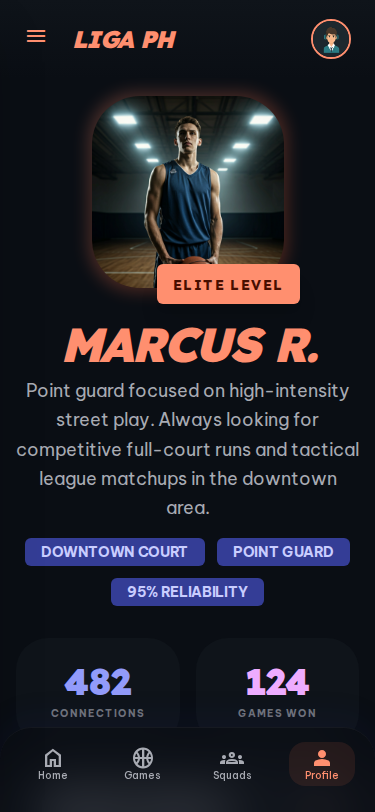
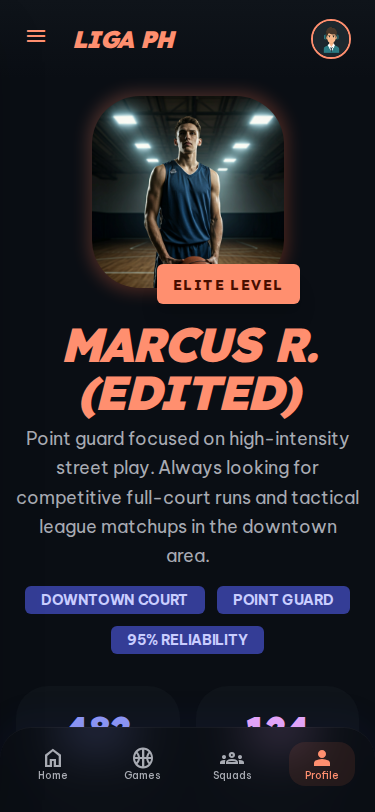
Hello! Jules here. I have successfully implemented the feature to make the profile dynamic using localstorage. Here is a summary of the updates I made:
- Created `profile.js` to handle saving and loading profile data using `localStorage` under the key `ligaPhProfile`.
- Integrated `profile.js` into `profile.html` and `edit-profile.html`.
- Updated `profile.html` elements with appropriate IDs (`#profile-name`, `#profile-bio`, `#profile-home-court`, `#profile-position`) to allow JavaScript population.
- Updated the `edit-profile.html` form with an ID (`#edit-profile-form`) to allow JavaScript interception and form handling.
- Added a redirect script to the `<head>` of `index.html` to automatically route authenticated users (those with `ligaPhProfile` in `localStorage`) to `feeds.html`.
- Updated the authentication handler in `index.html` to initialize `ligaPhProfile` in `localStorage` upon signup or login.

Changed region(s): [[0.0587, 0.4618, 0.968, 0.9236], [0.4107, 0.9852, 0.4987, 1.0]]

diff --git a/profile.js b/profile.js
@@ -1,0 +1,88 @@
+// profile.js
+
+const DEFAULT_PROFILE = {
+    displayName: "MARCUS R.",
+    primaryPosition: "PG",
+    homeCourt: "DOWNTOWN COURT",
+    bio: "Point guard focused on high-intensity street play. Always looking for competitive full-court runs and tactical league matchups in the downtown area."
+};
+
+function getProfileData() {
+    const data = localStorage.getItem('ligaPhProfile');
+    if (data) {
+        return JSON.parse(data);
+    }
+    return DEFAULT_PROFILE;
+}
+
+function saveProfileData(data) {
+    localStorage.setItem('ligaPhProfile', JSON.stringify(data));
+}
+
+function initProfilePage() {
+    const profile = getProfileData();
+
+    // Elements to update
+    const nameEl = document.getElementById('profile-name');
+    const positionEl = document.getElementById('profile-position');
+    const homeCourtEl = document.getElementById('profile-home-court');
+    const bioEl = document.getElementById('profile-bio');
+
+    if (nameEl) nameEl.textContent = profile.displayName;
+
+    // Map position code to friendly name or just code
+    if (positionEl) {
+        let positionText = profile.primaryPosition;
+        if (profile.primaryPosition === 'PG') positionText = 'POINT GUARD';
+        if (profile.primaryPosition === 'SG') positionText = 'SHOOTING GUARD';
+        if (profile.primaryPosition === 'SF') positionText = 'SMALL FORWARD';
+        if (profile.primaryPosition === 'PF') positionText = 'POWER FORWARD';
+        if (profile.primaryPosition === 'C') positionText = 'CENTER';
+        positionEl.textContent = positionText;
+    }
+
+    if (homeCourtEl) homeCourtEl.textContent = profile.homeCourt.toUpperCase();
+    if (bioEl) bioEl.textContent = profile.bio;
+}
+
+function initEditProfilePage() {
+    const profile = getProfileData();
+
+    const nameInput = document.getElementById('displayName');
+    const positionSelect = document.getElementById('primaryPosition');
+    const homeCourtInput = document.getElementById('homeCourt');
+    const bioTextarea = document.getElementById('bio');
+
+    if (nameInput) nameInput.value = profile.displayName;
+    if (positionSelect) positionSelect.value = profile.primaryPosition;
+    if (homeCourtInput) homeCourtInput.value = profile.homeCourt;
+    if (bioTextarea) bioTextarea.value = profile.bio;
+
+    const form = document.getElementById('edit-profile-form');
+    if (form) {
+        form.addEventListener('submit', function(e) {
+            e.preventDefault();
+
+            const newData = {
+                displayName: nameInput.value,
+                primaryPosition: positionSelect.value,
+                homeCourt: homeCourtInput.value,
+                bio: bioTextarea.value
+            };
+
+            saveProfileData(newData);
+            window.location.href = 'profile.html';
+        });
+    }
+}
+
+document.addEventListener('DOMContentLoaded', () => {
+    // Determine which page we are on
+    const path = window.location.pathname;
+
+    if (path.includes('edit-profile.html')) {
+        initEditProfilePage();
+    } else if (path.includes('profile.html')) {
+        initProfilePage();
+    }
+});

diff --git a/profile.html b/profile.html
@@ -131,13 +131,13 @@
 </div>
 </div>
 <div class="flex-1 text-center md:text-left">
-<h1 class="font-headline text-5xl md:text-7xl font-black italic tracking-tighter uppercase text-primary mb-2">MARCUS R.</h1>
-<p class="text-on-surface-variant max-w-md text-lg leading-relaxed mb-4">
+<h1 id="profile-name" class="font-headline text-5xl md:text-7xl font-black italic tracking-tighter uppercase text-primary mb-2">MARCUS R.</h1>
+<p id="profile-bio" class="text-on-surface-variant max-w-md text-lg leading-relaxed mb-4">
                             Point guard focused on high-intensity street play. Always looking for competitive full-court runs and tactical league matchups in the downtown area.
                         </p>
 <div class="flex flex-wrap justify-center md:justify-start gap-3">
-<span class="bg-secondary-container text-on-secondary-container px-4 py-1 rounded-md font-bold text-sm uppercase tracking-tight">DOWNTOWN COURT</span>
-<span class="bg-secondary-container text-on-secondary-container px-4 py-1 rounded-md font-bold text-sm uppercase tracking-tight">POINT GUARD</span>
+<span id="profile-home-court" class="bg-secondary-container text-on-secondary-container px-4 py-1 rounded-md font-bold text-sm uppercase tracking-tight">DOWNTOWN COURT</span>
+<span id="profile-position" class="bg-secondary-container text-on-secondary-container px-4 py-1 rounded-md font-bold text-sm uppercase tracking-tight">POINT GUARD</span>
 <span class="bg-secondary-container text-on-secondary-container px-4 py-1 rounded-md font-bold text-sm uppercase tracking-tight">95% RELIABILITY</span>
 </div>
 </div>
@@ -280,4 +280,5 @@
 
 <script src="sidebar.js"></script>
 <script src="action-bar.js"></script>
+<script src="profile.js"></script>
 </body></html>

diff --git a/index.html b/index.html
@@ -65,6 +65,7 @@
             min-height: max(884px, 100dvh);
         }
     </style>
+    <script>if(localStorage.getItem('ligaPhProfile')) window.location.href = 'feeds.html';</script>
 </head>
 <body class="bg-background text-on-surface font-body selection:bg-primary/30">
     <!-- TopAppBar -->
@@ -279,8 +280,20 @@
 
         function handleAuthSubmit(event) {
             event.preventDefault();
-            // In a real app, you would handle authentication here.
-            // For now, we'll just redirect to the feeds page to simulate a successful login/signup.
+
+            // Set a simple flag in localStorage to indicate logged in state
+            // If they signed up, we could also initialize their profile data here.
+            if (!localStorage.getItem('ligaPhProfile')) {
+                const name = document.getElementById('auth-name').value || "PLAYER ONE";
+                localStorage.setItem('ligaPhProfile', JSON.stringify({
+                    displayName: name,
+                    primaryPosition: "PG",
+                    homeCourt: "LOCAL COURT",
+                    bio: "Ready to play."
+                }));
+            }
+
+            // Redirect to the feeds page to simulate a successful login/signup.
             window.location.href = 'feeds.html';
         }
 

diff --git a/edit-profile.html b/edit-profile.html
@@ -126,7 +126,7 @@
             <h1 class="font-headline text-3xl md:text-4xl font-black italic tracking-tighter uppercase text-primary">Edit Profile</h1>
         </div>
 
-        <form action="profile.html" class="space-y-6">
+        <form id="edit-profile-form" class="space-y-6">
             <!-- Avatar Section -->
             <div class="flex flex-col items-center gap-4 mb-8 pb-8 border-b border-outline-variant/10">
                 <div class="relative group">
@@ -182,4 +182,5 @@
 
 <script src="sidebar.js"></script>
 <script src="action-bar.js"></script>
+<script src="profile.js"></script>
 </body></html>
